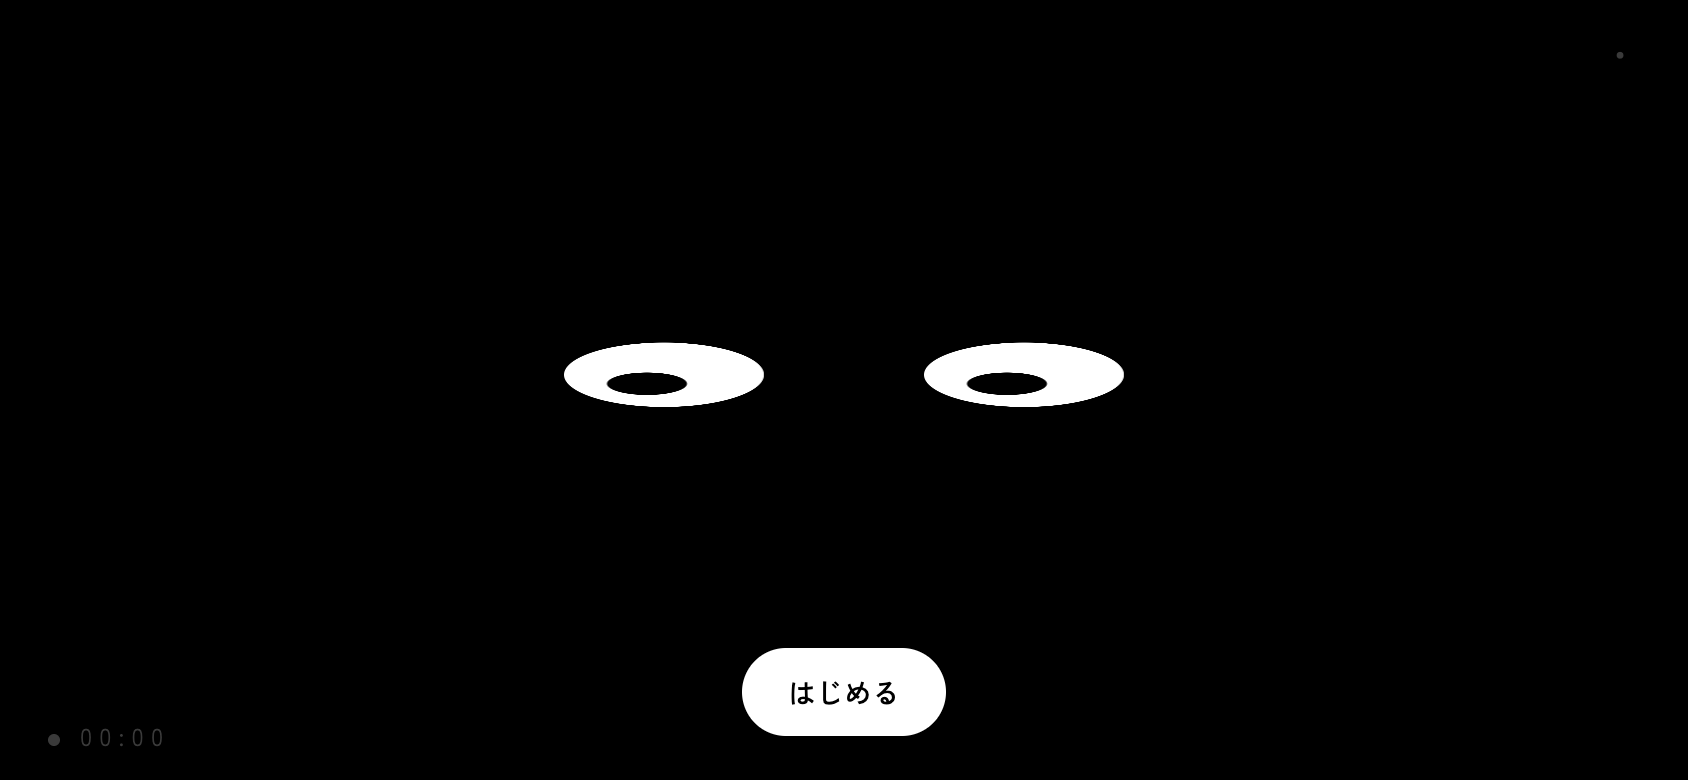
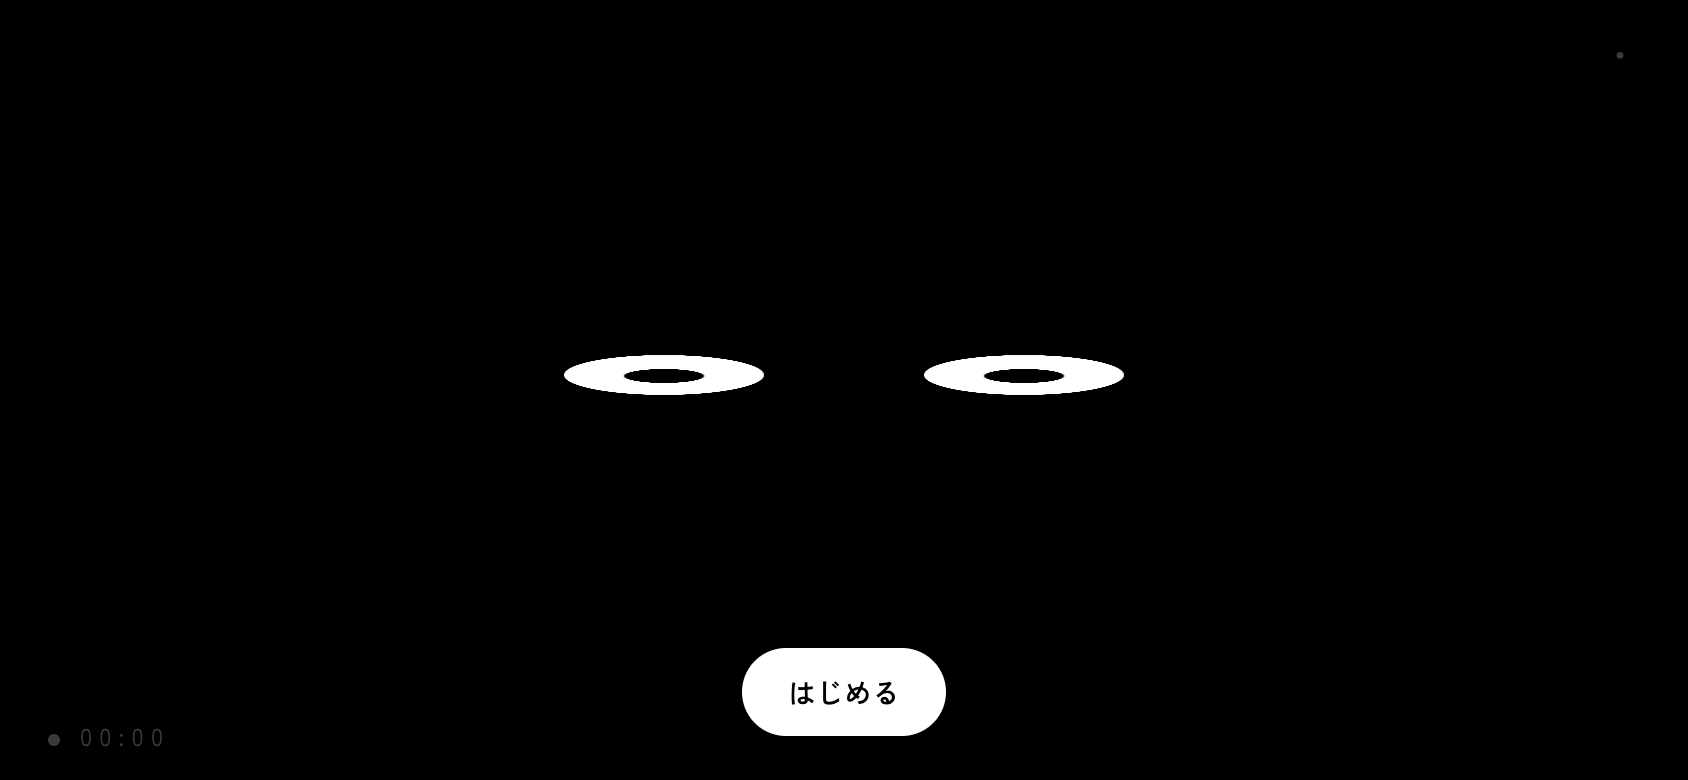
表情10種を配線（待機・通知・おかえり・節目・催促・スヌーズ3回・終了・初回）、寄る動きを控えめ＆コンパクトに

Changed region(s): [[0.3389, 0.4308, 0.4621, 0.5231], [0.5545, 0.4308, 0.6777, 0.5231]]

diff --git a/src/Eyes.tsx b/src/Eyes.tsx
@@ -23,6 +23,7 @@ type Props = {
   pace?: 1 | 2 | 3         // しぐさの多さ
   demo?: boolean           // 演目の間隔を短くする（確認用）
   onPoke?: () => void
+  onApproach?: () => void  // 長押しで寄っていった時
 }
 
 /** 笑い目「^」。線幅一定、端丸め。ため息は 180° 回して「∪」 */
@@ -74,7 +75,7 @@ const Swirl = () => {
 const sleep = (ms: number) => new Promise<void>((r) => setTimeout(r, ms))
 
 /** 黒背景に目だけ。まばたき・視線の泳ぎ・ゆらぎ・指追い・演技。 */
-export function Eyes({ mood, eyeSize, pace = 3, demo, onPoke }: Props) {
+export function Eyes({ mood, eyeSize, pace = 3, demo, onPoke, onApproach }: Props) {
   const paceRef = useRef(pace); paceRef.current = pace
   const root = useRef<HTMLDivElement>(null)
   const pair = useRef<HTMLDivElement>(null)
@@ -103,6 +104,7 @@ export function Eyes({ mood, eyeSize, pace = 3, demo, onPoke }: Props) {
     if (p.rot !== undefined) el.style.setProperty('--rot', `${p.rot}deg`)
     if (p.tiltL !== undefined) el.style.setProperty('--tiltL', `${p.tiltL}deg`)
     if (p.tiltR !== undefined) el.style.setProperty('--tiltR', `${p.tiltR}deg`)
+    if (p.gap !== undefined) el.style.setProperty('--gapk', String(p.gap))
     if (p.shape) { el.classList.toggle('shape-happy', p.shape === 'happy'); el.classList.toggle('shape-sad', p.shape === 'sad'); el.classList.toggle('shape-cross', p.shape === 'cross') }
     if (p.swirl !== undefined) el.classList.toggle('swirl', p.swirl)
     if (p.spin !== undefined) el.classList.toggle('spin', p.spin)
@@ -118,7 +120,7 @@ export function Eyes({ mood, eyeSize, pace = 3, demo, onPoke }: Props) {
   }
   const base = (): Pose => {
     const m = moodRef.current
-    return { lid: m === 'closed' ? B.CLOSED : m === 'sleepy' ? .45 : 0, lidb: 0, px: 0, py: 0, ps: 1, sx: 1, sy: 1, ox: 0, oy: 0, rot: 0, tiltL: 0, tiltR: 0, shape: m === 'happy' ? 'happy' : 'idle', text: null, bubble: null, t: 400, hold: 0 }
+    return { lid: m === 'closed' ? B.CLOSED : m === 'sleepy' ? .45 : 0, lidb: 0, px: 0, py: 0, ps: 1, sx: 1, sy: 1, ox: 0, oy: 0, rot: 0, tiltL: 0, tiltR: 0, gap: 1, shape: m === 'happy' ? 'happy' : 'idle', text: null, bubble: null, t: 400, hold: 0 }
   }
 
   // ---- 演目再生 ----
@@ -251,7 +253,7 @@ export function Eyes({ mood, eyeSize, pace = 3, demo, onPoke }: Props) {
       }
       if (now > followUntil.current) followStart.current = now
       followUntil.current = now + 2500
-      if (now - followStart.current > 5000) { followStart.current = now; perform(B.petted) }
+      if (now - followStart.current > 5000) { followStart.current = now; perform(B.dreamy) }
     }
     window.addEventListener('pointermove', onMove)
     window.addEventListener('touchmove', onMove, { passive: true })
@@ -264,10 +266,12 @@ export function Eyes({ mood, eyeSize, pace = 3, demo, onPoke }: Props) {
     let rest = { cx: 0, cy: 0, w: 0, h: 0 }   // 静止位置（長押し開始時に測る）
     const moveTo = (x: number, y: number) => {
       const { cx, cy, w, h } = rest
-      // 指に 75% 寄る。画面からはみ出さない（静止位置基準）
-      const ox = Math.max(w / 2 + 12 - cx, Math.min(innerWidth - w / 2 - 12 - cx, (x - cx) * .75))
-      const oy = Math.max(h / 2 + 12 - cy, Math.min(innerHeight - h / 2 - 12 - cy, (y - cy) * .75))
-      set({ ox, oy, px: Math.max(-1, Math.min(1, (x - cx - ox) / 160)), py: Math.max(-1, Math.min(1, (y - cy - oy) / 120)), shape: a.onEyes ? 'happy' : 'idle', t: 650, hold: 0 })
+      // 指の方へ少しだけ（30%、最大 90px）寄る。目同士も寄せてコンパクトに
+      const lim = (v: number, m: number) => Math.max(-m, Math.min(m, v))
+      const ox = Math.max(w / 2 + 12 - cx, Math.min(innerWidth - w / 2 - 12 - cx, lim((x - cx) * .3, 90)))
+      const oy = Math.max(h / 2 + 12 - cy, Math.min(innerHeight - h / 2 - 12 - cy, lim((y - cy) * .3, 36)))
+      const ang = Math.atan2(y - cy, x - cx)
+      set({ ox, oy, gap: .6, sx: .94, sy: .94, rot: Math.cos(ang) * 6, px: Math.max(-1, Math.min(1, (x - cx - ox) / 160)), py: Math.max(-1, Math.min(1, (y - cy - oy) / 120)), shape: a.onEyes ? 'happy' : 'idle', t: 700, hold: 0 })
     }
     const pos = (e: PointerEvent | TouchEvent) => { const p = 'touches' in e ? e.touches[0] : e; return p ? [p.clientX, p.clientY] as const : null }
     const down = (e: PointerEvent) => {
@@ -285,6 +289,7 @@ export function Eyes({ mood, eyeSize, pace = 3, demo, onPoke }: Props) {
         if (busy()) { a.on = false; return }
         perf.current = { token: -1, interruptible: false }   // 他の演技をブロック
         moveTo(a.x, a.y)
+        if (!a.onEyes) onApproach?.()
       }, 420)
     }
     const move = (e: PointerEvent | TouchEvent) => {
@@ -297,7 +302,7 @@ export function Eyes({ mood, eyeSize, pace = 3, demo, onPoke }: Props) {
       clearTimeout(a.timer); a.timer = 0
       if (!a.on) return
       a.on = false; perf.current = null
-      set({ ox: 0, oy: 0, px: 0, py: 0, shape: 'idle', t: 700, hold: 0 })
+      set({ ox: 0, oy: 0, gap: 1, sx: 1, sy: 1, rot: 0, px: 0, py: 0, shape: 'idle', t: 700, hold: 0 })
       followUntil.current = Date.now() + 1200
     }
     window.addEventListener('pointerdown', down)

diff --git a/src/App.tsx b/src/App.tsx
@@ -38,6 +38,8 @@ export function App() {
   const nudgeAt = useRef(0)
   const nextNag = useRef(0)
   const milestones = useRef<Set<number>>(new Set())
+  const snoozes = useRef(0)
+  const started = useRef(false)
   const audio = useRef<AudioContext | null>(null)
   const hiddenAt = useRef(0)
   const talkTimer = useRef(0)
@@ -84,8 +86,8 @@ export function App() {
       wake()
       const gap = Date.now() - hiddenAt.current
       if (mode !== 'focus') return
-      if (hiddenAt.current && gap < 8000) { play('glanceUp'); say(L.notice(), { ms: 4500 }) }
-      else { play('welcome'); say(L.welcomeBack(), { happy: true, ms: 3000 }) }
+      if (hiddenAt.current && gap < 8000) { play('startle'); setTimeout(() => play('glanceUp'), 1900); say(L.notice(), { ms: 4500 }) }
+      else { play('bounce'); say(L.welcomeBack(), { ms: 3000 }) }
     }
     document.addEventListener('visibilitychange', onVis)
     return () => document.removeEventListener('visibilitychange', onVis)
@@ -169,7 +171,7 @@ export function App() {
     const v = seen.current, now = Date.now()
     setDark(s.dark)
     // 離席 / 帰席
-    if (v.present && !s.present) { v.present = false; say(L.away(), { ms: 2500 }); play('awayWait') }
+    if (v.present && !s.present) { v.present = false; say(L.away(), { ms: 2500 }); play('awayWait'); setTimeout(() => { if (!seen.current.present) play('droop') }, 8000) }
     else if (!v.present && s.present) { v.present = true; play('welcome') }
     if (s.dark && now - v.lastDark > min(10)) { v.lastDark = now; say(L.dark()) }
     if (s.face) lookAt(s.face)
@@ -198,7 +200,9 @@ export function App() {
     if (cfg.sound && !audio.current) { try { audio.current = new AudioContext() } catch { /* no audio */ } }
     setMode('focus'); setPhase('quiet')
     say(L.back(), { happy: true, ms: 2500 })
-    if (isMorning()) setTimeout(() => play('yawn'), 3000)
+    if (!started.current) { started.current = true; setTimeout(() => play('peek'), 2800) }
+    else if (isMorning()) setTimeout(() => play('yawn'), 3000)
+    snoozes.current = 0
     wake(); fullscreen(); motionPermission()
   }
   const motionPermission = () => {
@@ -208,7 +212,8 @@ export function App() {
   const snooze = () => {
     nextNudge.current = Date.now() + min(5)
     setPhase('quiet')
-    say(L.snoozed(), { ms: 1800 })
+    snoozes.current++
+    if (snoozes.current >= 3) { play('headShake'); say('もう…。5分だけね。', { ms: 2200 }) } else say(L.snoozed(), { ms: 1800 })
   }
   const startBreak = () => {
     const t = { day: today(), sec: total.sec + elapsed }
@@ -219,6 +224,7 @@ export function App() {
   }
   const resume = () => { play('wakeOneEye'); setTimeout(start, 900) }
   const stop = () => {
+    play('droop'); say(L.bye(), { ms: 2500 })
     const t = { day: today(), sec: total.sec + elapsed }
     setTotal(t); saveTotal(t)
     setMode('off'); setPhase('quiet'); hush()
@@ -229,12 +235,12 @@ export function App() {
   useEffect(() => {
     if (mode === 'focus' && phase === 'quiet') {
       if (now >= nextNudge.current) { setPhase('nudge'); nudgeAt.current = now; nextNag.current = now + min(3); say(L.nudge(Math.round(elapsed / 60)), { happy: true, hold: true }); notify() }
-      else for (const m of [60, 120, 180]) if (elapsed >= m * 60 && !milestones.current.has(m)) { milestones.current.add(m); say(L.milestone(m), { happy: true, ms: 3000 }) }
+      else for (const m of [60, 120, 180]) if (elapsed >= m * 60 && !milestones.current.has(m)) { milestones.current.add(m); play('bounce'); say(L.milestone(m), { ms: 3000 }) }
       else if (cfg.chatter && now >= nextChatter.current) { say(L.chatter()); scheduleChatter() }
       if (now >= nextNod.current) { nextNod.current = now + min(25); play('nod') }
     }
     if (mode === 'focus' && phase === 'nudge' && now >= nextNag.current) {
-      nextNag.current = now + min(3); play('sigh'); setTimeout(() => say(L.nag(), { hold: true }), 1500)
+      nextNag.current = now + min(3); play('grumpy'); setTimeout(() => say(L.nag(), { hold: true }), 800)
     }
     if (mode === 'break' && phase === 'quiet' && breakLeft <= 0) {
       setPhase('breakOver'); say(L.breakEnd(), { happy: true, hold: true }); notify()
@@ -258,6 +264,7 @@ export function App() {
         demo={demo}
         pace={cfg.pace}
         onPoke={() => { if (mode === 'focus' && phase === 'quiet') say(L.poke(), { ms: 1800 }) }}
+        onApproach={() => say(L.curious(), { ms: 2500 })}
       />
       <p class={`line ${line ? 'on' : ''}`} role="status" aria-live="polite">{line?.text ?? ''}</p>
 

diff --git a/src/behaviors.ts b/src/behaviors.ts
@@ -9,6 +9,7 @@
  *  sx / sy            目全体の伸縮
  *  ox / oy            目のペアの移動 px（体ごと動く）
  *  rot                ペアの回転 deg（首かしげ）
+ *  gap                目と目の間隔の倍率（1 が通常。小さいとコンパクト）
  *  tiltL / tiltR      左右それぞれの目の傾き deg（眉の代わり。内側に倒すと怒り、外側で悲しみ）
  *  shape              'idle' | 'happy' | 'sad' | 'cross'（×目）
  *  swirl              頭上の渦巻き
@@ -23,7 +24,7 @@ export type Pose = {
   px?: number; py?: number; ps?: number
   sx?: number; sy?: number
   ox?: number; oy?: number; rot?: number
-  tiltL?: number; tiltR?: number
+  tiltL?: number; tiltR?: number; gap?: number
   shape?: 'idle' | 'happy' | 'sad' | 'cross'
   swirl?: boolean
   spin?: boolean
@@ -37,7 +38,7 @@ export type Base = { lid: number; shape: 'idle' | 'happy' }
 /** 「閉じた目」。完全に隠さず、下にひと筋残す */
 export const CLOSED = 0.93
 
-const R = { lid: 0, lidb: 0, px: 0, py: 0, ps: 1, sx: 1, sy: 1, ox: 0, oy: 0, rot: 0, tiltL: 0, tiltR: 0, shape: 'idle', swirl: false, spin: false, text: null, bubble: null } as const
+const R = { lid: 0, lidb: 0, px: 0, py: 0, ps: 1, sx: 1, sy: 1, ox: 0, oy: 0, rot: 0, tiltL: 0, tiltR: 0, gap: 1, shape: 'idle', swirl: false, spin: false, text: null, bubble: null } as const
 const reset = (t = 400, hold = 300): Pose => ({ ...R, t, hold })
 const jitter = (n: number, amp: number, key: 'px' | 'sx' | 'sy', t = 70): Performance =>
   Array.from({ length: n }, (_, i) => ({ [key]: (i % 2 ? 1 : -1) * amp + (key === 'px' ? 0 : 1), t, hold: t }))
@@ -249,16 +250,18 @@ export const peek: Performance = [
 ]
 export const bodySet = { startle, grumpy, droop, bounce, headTilt, lean, dreamy, noddingOff, headShake, peek }
 
-export const idleSet = { think, doze, lookAround, doubleTake, spaceOut, rubEyes, sigh, stretch }
+export const idleSet = { think, doze, lookAround, doubleTake, spaceOut, rubEyes, sigh, stretch, headTilt, lean, dreamy, noddingOff }
 export type IdleName = keyof typeof idleSet
 
 /** 待機演目を重み付きで選ぶ。直前と同じものは避ける。 */
 export function pickIdle(opts: { sleepy: boolean; night: boolean; last: IdleName | null }): IdleName {
   const w: Record<IdleName, number> = {
     think: 3, lookAround: 3, doubleTake: 2, spaceOut: 2, sigh: 2,
-    doze: opts.night ? 6 : opts.sleepy ? 4 : 2,
+    doze: opts.night ? 4 : opts.sleepy ? 3 : 2,
     rubEyes: opts.sleepy || opts.night ? 3 : 1,
     stretch: opts.sleepy ? 3 : 0,
+    headTilt: 2, lean: 3, dreamy: 1,
+    noddingOff: opts.night ? 5 : opts.sleepy ? 4 : 1,
   }
   if (opts.last) w[opts.last] = 0
   const total = Object.values(w).reduce((a, b) => a + b, 0)

diff --git a/src/lines.ts b/src/lines.ts
@@ -25,4 +25,6 @@ export const milestone = (min: number) => pick([`${min}分。すごい。`, `${m
 export const resumed = () => 'つづきから。'
 export const welcomeBack = () => pick(['おかえり。', 'おかえり。つづきやろう。', 'もどってきたね。'])
 export const notice = () => pick(['何か来た？ 大事なものなら見たほうがいいと思うよ。', 'いまの、急ぎ？ 急ぎじゃないなら後でいいよ。', '通知？ 気になるなら見ておいで。'])
+export const curious = () => pick(['そっちに何かあるの？', 'なになに？', 'そっち、気になる。', 'ん？ そこ？'])
+export const bye = () => pick(['おつかれ。', 'またね。', 'よくやった。'])
 export const dark = () => pick(['暗くない？', '電気つけよ。'])

diff --git a/src/style.css b/src/style.css
@@ -40,11 +40,11 @@ body {
   position: relative;
   display: flex; gap: var(--eye-gap); touch-action: none;
   --t: 400ms; --lidL: 0; --lidR: 0; --lidb: 0; --px: 0; --py: 0; --ps: 1; --sx: 1; --sy: 1;
-  --ox: 0px; --oy: 0px; --rot: 0deg; --tiltL: 0deg; --tiltR: 0deg;
+  --ox: 0px; --oy: 0px; --rot: 0deg; --tiltL: 0deg; --tiltR: 0deg; --gapk: 1;
   transform: translate(var(--ox), var(--oy)) rotate(var(--rot));
   transition: transform var(--t) cubic-bezier(.3, .9, .3, 1.1);
 }
-.pair { display: flex; gap: var(--eye-gap); }
+.pair { display: flex; gap: calc(var(--eye-gap) * var(--gapk)); transition: gap var(--t) ease; }
 .eye {
   position: relative;
   width: var(--eye-w);

diff --git a/README.md b/README.md
@@ -41,17 +41,26 @@
 | 目をこする | ぎゅっと閉じて小刻みに揺れる（半分の確率でそのままウトウトへ） |
 | ため息 | 一瞬だけ下向きの弧 |
 | 伸び | 縦にぐーっと伸びてぶるっ（眠い時間帯だけ） |
+| 首かしげ | ペアごと傾いて「？」 |
+| 体ごと見回す | 左右にスライド、瞳が先行 |
+| うっとり | 半目で沈んでゆらゆら（低頻度） |
+| 寝落ち | 傾きながら沈む → ガクッと戻る（深夜・90分超で増える） |
 
 反応するもの。
 
 | きっかけ | 目 |
 |---|---|
-| 別の画面から戻ってきた | ぱちっと開いて ^ ^「おかえり」 |
-| 8 秒未満だけ画面が隠れた（通知を見た？） | 上を見上げて「大事なものなら見たほうがいいと思うよ」 |
+| 別の画面から戻ってきた | ぴょんぴょん弾んで「おかえり」 |
+| 8 秒未満だけ画面が隠れた（通知を見た？） | びっくり「！」→ 上を見上げて「大事なものなら見たほうがいいと思うよ」 |
+| 初回の「はじめる」 | 伸び上がってのぞきこむ |
+| 「あと5分」を 3 回連続 | いやいや（横に振って ∪）「もう…。5分だけね。」 |
+| 休憩の誘いを 3 分放置 | むっ（内側に傾いて細まる）＋ひと言、3 分ごと |
+| 節目（60/120/180 分） | ぴょんぴょん |
+| 「終了」 | しょんぼり「おつかれ。」 |
 | 目を3回連打 | じとっ →「くすぐったい」 |
-| どこでも長押し | 目が指の方へ寄ってくる。指が目の上なら ^ ^。離すと戻る |
+| どこでも長押し | 目同士を寄せてコンパクトになり、指の方へ少し寄って「そっちに何かあるの？」。指が目の上なら ^ ^。離すと戻る |
 | 端末を振る / 目の周りを指で 2 周回す | 瞳がぐるぐる → ×目、頭上に渦巻き |
-| 5秒なで続ける | ^ ^ |
+| 5秒なで続ける | うっとり |
 | 朝（5〜10時）に開始 | あくび「ふぁ」 |
 | 25分ごと | 小さくうなずく |
 | 休憩中 | 寝息で上下、たまに「z z z」「…ん」 |
@@ -63,12 +72,10 @@
 
 | レベル | 仕組み | 反応 |
 |---|---|---|
-| 在席と明るさだけ | 32×24 に縮めたフレームの差分と明るさ。ライブラリなし、1 秒に 1 回 | 離席→「どこ行った？」キョロキョロ。戻る→ぱちっと ^ ^。暗い→眠そうになって「電気つけよ」 |
+| 在席と明るさだけ | 32×24 に縮めたフレームの差分と明るさ。ライブラリなし、1 秒に 1 回 | 離席→「どこ行った？」キョロキョロ「…？」、長いとしょんぼり。戻る→ぱちっと ^ ^。暗い→眠そうになって「電気つけよ」 |
 | 顔も見る | MediaPipe Face Landmarker（WASM、初回ロード数秒、4 fps） | 顔の位置を目で追う。2 秒目を閉じる→「寝てる？」二度見。あくび→つられてあくび。笑う→ ^ ^。30 秒よそ見→じとっ「スマホ見てる？」 |
 
 「顔も見る」は CPU を使うので電池が減る。長時間なら「在席と明るさだけ」で。
-
-候補（待機には未配線、`me.play('名前')` で再生）: startle びっくり / grumpy むっ / droop しょんぼり / bounce ぴょんぴょん / headTilt 首かしげ / lean 体ごと見回す / dreamy うっとり / noddingOff 寝落ち / headShake いやいや / peek のぞきこむ
 
 確認用: URL に `?demo` を付けるとしぐさが 8〜15 秒おきになる。コンソールで `me.play('doze')` でも再生できる（名前は `src/behaviors.ts`）。
 
